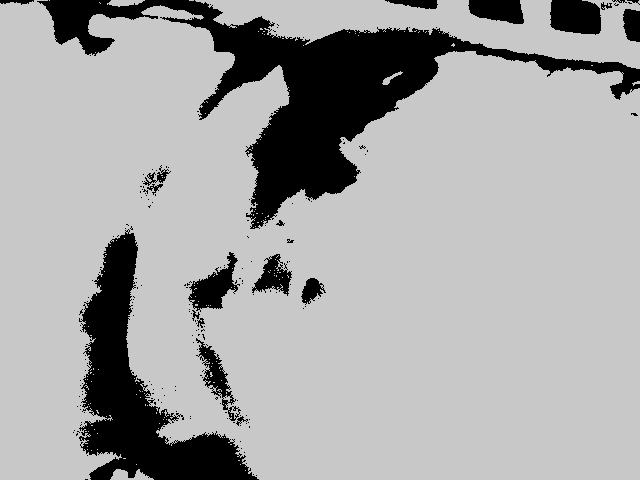
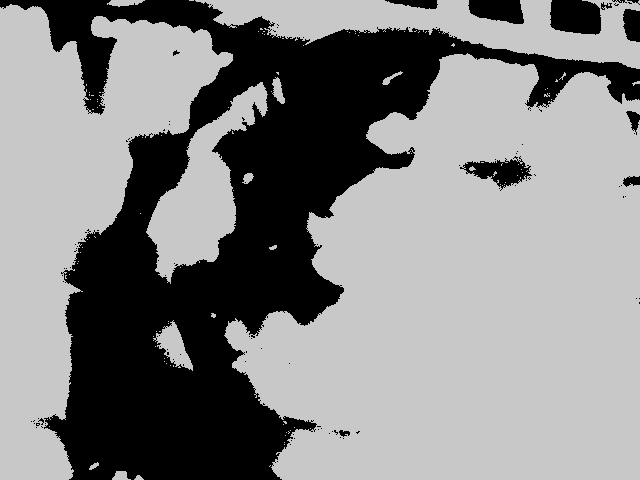
sa

diff --git a/scan/pylib/cmakewrap.py b/scan/pylib/cmakewrap.py
@@ -294,10 +294,11 @@ maskimg = np.zeros((rwidth, rheight), dtype=np.int)
 # mask = (image3 < 50) or (image3 > 200)
 for i in range(rwidth):
     for j in range(rheight):
-        mask[i,j] = (image3[i,j] < 35)  or (image3[i,j]> 240)
+        mask[i,j] = (image3[i,j] < 55)  or (image3[i,j]> 240)
         mask = np.invert(mask)
         maskimg[i,j] = mask[i,j]* 200
 maskimg = np.transpose(maskimg)
+image3 = np.transpose(image3)
 gray2 = cv2.cvtColor(image2, cv2.COLOR_BGR2GRAY)
 cv2.imwrite(folder + 'diff.png', image3)
 cv2.imwrite(folder + 'maskimg.png', maskimg)
